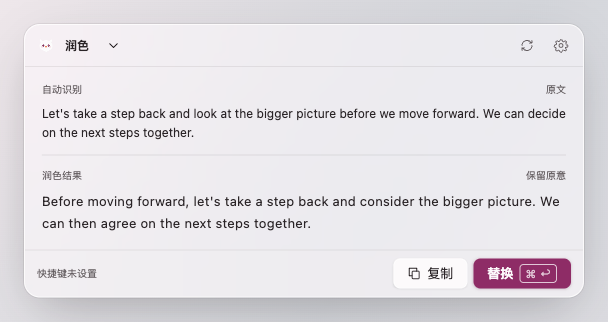
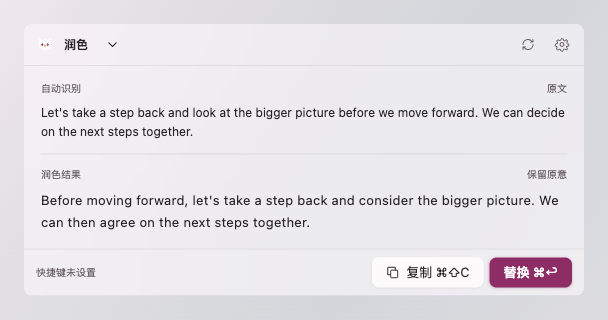
design: mirror the panel's shortcuts, write-back and chrome
The app now lists the floating panel's fixed keys on the 快捷键 page,
names ⌘⇧C / ⌘↩ on the panel footer, calls a refused write-back
result-unwritten instead of result-stale, and keeps the system glass
defaults with no border and no window shadow. The mockups and the docs
still described the old 应用内 rows, the stale notice, a hairline panel
stroke and a soft panel shadow.

Update design/index.html (PANEL_KEYS, footer labels, result-unwritten),
regenerate the screenshots, and correct every prose claim that the
write-back compares the selection, that the panel draws its own border
or shadow, or that the 快捷键 page has a 应用内 section. The component
doc now counts three must-customize exceptions instead of four, because
the panel no longer hand-draws the glass and shadow that the removed
breathing exception depended on.

diff --git a/design/index.html b/design/index.html
@@ -134,7 +134,7 @@ select.popup{appearance:none;-webkit-appearance:none;height:28px;padding:0 26px 
 .section-footer svg{width:14px;height:14px}
 
 /* Floating panel */
-.window.floating{display:flex;flex-direction:column;width:560px;min-height:0;height:auto;max-height:calc(100vh - 200px);margin:clamp(20px,5vh,55px) auto 0;border-radius:16px;background:oklch(99% .006 350/.55);backdrop-filter:blur(30px) saturate(1.5)}
+.window.floating{display:flex;flex-direction:column;width:560px;min-height:0;height:auto;max-height:calc(100vh - 200px);margin:clamp(20px,5vh,55px) auto 0;border:0;border-radius:8px;box-shadow:none;background:oklch(99% .006 350/.55);backdrop-filter:blur(30px) saturate(1.5)}
 .window.floating>.appbar,.window.floating>.sidebar{display:none}
 .window.floating>.page{grid-column:auto;grid-row:auto;background:transparent}
 .window.floating.compact{width:430px}
@@ -223,7 +223,7 @@ body.board-open #sourceDrawer,body.board-open #toast{display:none!important}
 </defs></svg>
 <div id="experience" class="stage">
 <div id="menubar" class="mac-menubar"></div>
-<header class="studio"><div class="brand"><img class="owl" src="logo/owlet.png" alt="Owlet"/><div><b>owlet</b></div></div><div class="prototype"><button onclick="showBoard()">状态总览 ↗</button><select id="scenario" aria-label="演示场景"><option value="normal">正常流程</option><option value="stale">原选区已变化</option><option value="error">请求失败</option></select></div></header>
+<header class="studio"><div class="brand"><img class="owl" src="logo/owlet.png" alt="Owlet"/><div><b>owlet</b></div></div><div class="prototype"><button onclick="showBoard()">状态总览 ↗</button><select id="scenario" aria-label="演示场景"><option value="normal">正常流程</option><option value="unwritten">未能写回</option><option value="error">请求失败</option></select></div></header>
 <div class="state-browser"><span>状态预览</span><button aria-label="上一个状态" onclick="stepState(-1)">←</button><select id="statePicker" aria-label="界面状态" onchange="preview(this.value)"></select><button aria-label="下一个状态" onclick="stepState(1)">→</button><small id="stateCount"></small></div>
 <div class="window" id="window"><header class="appbar" id="appbar"></header><aside class="sidebar" id="sidebar"></aside><main class="page" id="main"></main></div>
 <footer class="stage-footer"><span>macOS 26</span><span><button onclick="sample('en')">英语示例</button> / <button onclick="sample('ja')">日语示例</button><button onclick="toggleSource()">查看模拟原选区 ↗</button></span></footer>
@@ -248,7 +248,8 @@ const longText="Let's take a step back and look at the bigger picture before we 
 const LANGS=[['zh-Hans','简体中文'],['zh-Hant','繁體中文'],['en','English'],['ja','日本語']];
 const langName=v=>(LANGS.find(l=>l[0]===v)||LANGS[0])[1];
 const SHORTCUTS=[['翻译','translate'],['润色','polish'],['翻译并替换','translateReplace']];
-const IN_APP=[['提交文本','⌘ ↩','应用内'],['替换结果','⌘ ↩','浮动工具栏'],['关闭 / 取消','Esc','浮动工具栏']];
+// PanelKey.all：面板打开时始终生效的固定键，实现于 Owlet/Shortcuts/PanelKey.swift。
+const PANEL_KEYS=[['替换','⌘ ↩','浮动面板'],['复制','⌘ ⇧ C','浮动面板'],['停止处理 / 关闭','Esc','浮动面板']];
 // PanelController.Notice：消息与唯一的恢复入口，实现于 Owlet/App/PanelController.swift。
 const MODEL_LIST_ERROR='Authentication failed. Check the API key.';
 const NOTICES={
@@ -257,7 +258,7 @@ const NOTICES={
   missingConfig:{message:'模型服务未配置',action:'配置服务'},
   format:{message:'返回格式错误，请检查提示词',action:'提示词设置'},
   connection:{message:'连接失败，请检查模型服务',action:'服务设置'},
-  stale:{message:'原选区已变化，未替换',action:'复制结果'},
+  unwritten:{message:'未能写回原应用',action:'复制结果'},
   cancelled:{message:'已取消处理',action:'重新处理'}
 };
 
@@ -271,7 +272,7 @@ const states=[
  ['workspace-error','文本处理 · 请求失败','行内提示 ModelError 的原始文案，并提供服务设置入口。','workspace-error.png'],
  ['workspace-unconfigured','文本处理 · 服务未配置','缺少服务配置时提示并指向设置。','workspace-unconfigured.png'],
  ['workspace-collapsed','文本处理 · 侧栏收起','NavigationSplitView 收起侧栏后页面不变。','workspace-collapsed.png'],
- ['shortcuts','快捷键 · 未设置','三个全局动作未录制；应用内快捷键固定。','shortcuts.png'],
+ ['shortcuts','快捷键 · 未设置','三个全局动作未录制；面板内固定键只读。','shortcuts.png'],
  ['shortcuts-recording','快捷键 · 录制中','录制按钮等待新组合键；Esc 取消，Delete 清除。','shortcuts-recording.png'],
  ['shortcuts-conflict','快捷键 · 组合冲突','与已录制动作冲突时提示换一个组合。','shortcuts-conflict.png'],
  ['settings','设置 · 模型服务','DeepSeek 已保存：Base URL、Key、模型列表选择与浮窗位置。','settings.png'],
@@ -288,12 +289,12 @@ const states=[
  ['permission','权限 · 未授权','未授权时不发起请求，入口指向权限设置。','permission.png'],
  ['unconfigured','服务 · 未配置','缺少服务配置时提示并指向设置。','unconfigured.png'],
  ['selection-error','选区 · 读取失败','读取不到文字时不发起请求，可改用手动输入。','selection-error.png'],
- ['stale','直接替换 · 选区失效','原选区变化时停止写回，只保留复制。','stale.png'],
+ ['stale','直接替换 · 未能写回','未能写回原应用时就地提示，并可复制结果。','stale.png'],
  ['result','翻译 · 结果','展开面板：头部操作选择、原文、译文与底部复制替换。','result.png'],
  ['polish','润色 · 结果','同一面板，标签改为润色结果与保留原意。','polish.png'],
  ['long','翻译 · 长文本','结果滚动，复制与替换固定在底部。','long.png'],
  ['result-loading','翻译 · 结果区处理中','已展开时重新处理保持展开，在结果区显示加载。','result-loading.png'],
- ['result-stale','翻译 · 写回被拒','结果仍保留，就地说明未写回并可复制。','result-stale.png'],
+ ['result-unwritten','翻译 · 未能写回','结果仍保留，就地说明未能写回并可复制。','result-unwritten.png'],
  ['result-notice','翻译 · 结果区失败','展开态失败不收起面板：结果区隐藏，行内提示加底部重试。','result-notice.png'],
  ['result-cancelled','翻译 · 结果区已取消','取消后结果区隐藏，行内提示与底部都回到重新处理。','result-cancelled.png'],
  ['menubar','菜单栏 · 常驻','点击菜单栏图标展开菜单，不直接开窗。','menubar.png'],
@@ -325,12 +326,12 @@ const config={
   permission:{surface:'compact',view:'translate',strip:'notice',notice:'permission'},
   unconfigured:{surface:'compact',view:'translate',strip:'notice',notice:'missingConfig'},
   'selection-error':{surface:'compact',view:'translate',strip:'notice',notice:'unreadable'},
-  stale:{surface:'compact',view:'direct',strip:'notice',notice:'stale'},
+  stale:{surface:'compact',view:'direct',strip:'notice',notice:'unwritten'},
   result:{surface:'panel',view:'translate',phase:'success'},
   polish:{surface:'panel',view:'polish',phase:'success',operation:'polish'},
   long:{surface:'panel',view:'translate',phase:'success',long:true},
   'result-loading':{surface:'panel',view:'translate',phase:'loading'},
-  'result-stale':{surface:'panel',view:'translate',phase:'success',notice:'stale'},
+  'result-unwritten':{surface:'panel',view:'translate',phase:'success',notice:'unwritten'},
   'result-notice':{surface:'panel',view:'translate',phase:'failure',notice:'connection'},
   'result-cancelled':{surface:'panel',view:'translate',phase:'idle',notice:'cancelled'},
   menubar:{surface:'menubar',view:'translate',phase:'success'},
@@ -339,24 +340,24 @@ const config={
 // 状态总览按窗口与面板分组，分区竖向堆叠。
 const panels=[
  {title:'应用窗口 · 文本处理',note:'NavigationSplitView：可收起的系统侧边栏 + 跨整窗的统一工具栏。工具栏 trailing 端是目标语言弹出式按钮、翻译／润色分段控件，以及底部操作栏的复制与主要动作。',nodes:['workspace','workspace-empty','workspace-input','workspace-loading','workspace-polish','workspace-error','workspace-unconfigured','workspace-collapsed']},
- {title:'应用窗口 · 快捷键',note:'全局动作录制与应用内固定快捷键；无默认组合。',nodes:['shortcuts','shortcuts-recording','shortcuts-conflict']},
+ {title:'应用窗口 · 快捷键',note:'全局动作录制与面板内固定快捷键；无默认组合。',nodes:['shortcuts','shortcuts-recording','shortcuts-conflict']},
  {title:'应用窗口 · 设置',note:'inset grouped 表单；设置是主窗口的侧栏页面，不是独立窗口。',nodes:['settings','settings-openai','settings-saved','settings-models','settings-models-loading']},
  {title:'浮动面板 · 紧凑条',note:'快捷键唤起后的单行玻璃条：选中文字摘要、加载指示、停止按钮；失败与缺少条件时就地给一个恢复入口。',nodes:['loading','polish-loading','direct-loading','error','format-error','cancelled','permission','unconfigured','selection-error','stale']},
- {title:'浮动面板 · 展开',note:'首次成功后展开：头部操作选择、原文与译文、底部复制与替换。已展开时重新处理保持展开，状态显示在内容区。',nodes:['result','polish','long','result-loading','result-stale','result-notice','result-cancelled']},
+ {title:'浮动面板 · 展开',note:'首次成功后展开：头部操作选择、原文与译文、底部复制与替换。已展开时重新处理保持展开，状态显示在内容区。',nodes:['result','polish','long','result-loading','result-unwritten','result-notice','result-cancelled']},
  {title:'菜单栏',note:'MenuBarExtra 的常驻入口，点击展开菜单。',nodes:['menubar','menubar-menu']}
 ];
 
 let state='result',which='en',prefs={target:'zh-Hans'},appPage='processing',operationOverride=null,sidebarCollapsed=false;
 let phase='success',notice=null,long=false,recording=null,saved=false,shortcutDraft=null,conflict=false,menubarMenu=false;
 let scenario='normal',toastTimer,external="Let's take a step back and look at the bigger picture before we move forward. We can decide on the next steps together.";
-let sourceSnapshot=external,buildingBoard=false,boardBuilt=false;
+let buildingBoard=false,boardBuilt=false;
 
 function cfg(){return config[state]||config.result}
 function resultText(){if(currentOperation()==='polish')return samples[which].polish;const base=samples[which][prefs.target]||samples[which].zh;return long?(base+'\n\n'+base):base}
 function inputText(){return long?longText:samples[which].text}
 function toast(msg){$('#toast').textContent=msg;$('#toast').classList.remove('hidden');clearTimeout(toastTimer);toastTimer=setTimeout(()=>$('#toast').classList.add('hidden'),2600)}
 function toggleSource(){$('#sourceDrawer').classList.toggle('hidden')}
-function sample(k){which=k;external=inputText();sourceSnapshot=external;render()}
+function sample(k){which=k;external=inputText();render()}
 
 // ---------- 应用窗口 ----------
 function sidebarHTML(){
@@ -379,7 +380,7 @@ function setOperation(v){operationOverride=v;render()}
 function currentOperation(){return operationOverride||cfg().operation||'translate'}
 function processingHTML(){
   const op=currentOperation(),busy=phase==='loading',done=phase==='result',failed=phase==='failure';
-  const source=`<section class="source-section"><div class="labelrow"><span class="label">${done||busy?'自动识别':'输入文本'}</span><span>${done||busy?'原文':'⌘ V 粘贴'}</span></div><textarea class="source" aria-label="原文" spellcheck="false" placeholder="输入或粘贴要处理的文本…" oninput="sourceSnapshot=this.value">${cfg().empty?'':esc(inputText())}</textarea></section>`;
+  const source=`<section class="source-section"><div class="labelrow"><span class="label">${done||busy?'自动识别':'输入文本'}</span><span>${done||busy?'原文':'⌘ V 粘贴'}</span></div><textarea class="source" aria-label="原文" spellcheck="false" placeholder="输入或粘贴要处理的文本…" oninput="external=this.value">${cfg().empty?'':esc(inputText())}</textarea></section>`;
   const label=busy?`<span class="pending-label"><span class="spin mini" aria-hidden="true"></span>${op==='polish'?'润色中':'翻译中'}</span>`:(op==='polish'?'润色结果':'译文');
   const meta=op==='polish'?'保留原意':langName(prefs.target);
   const result=done?esc(resultText()):`<span>${esc(inputText().slice(0,140))}</span>`;
@@ -399,8 +400,8 @@ function shortcutsHTML(){
   const note=conflict
     ?`${icon('warn')}该组合已用于“翻译”，请换一个。`
     :recording?'按新组合键；Esc 取消，Delete 清除。':'';
-  const inApp=IN_APP.map(([n,k,s])=>`<div class="keyrow"><span><span class="name">${n}</span><span class="scope" style="display:block">${s}</span></span><span class="keys">${k}</span></div>`).join('');
-  return `<div class="body" id="body"><div class="form"><div class="form-section"><p class="group-title">全局</p>${rows}<p class="section-footer" role="status">${note||'&nbsp;'}</p></div><div class="form-section"><p class="group-title">应用内</p>${inApp}<p class="section-footer">录制后立即生效</p></div></div></div>`;
+  const panelKeys=PANEL_KEYS.map(([n,k,s])=>`<div class="keyrow"><span><span class="name">${n}</span><span class="scope" style="display:block">${s}</span></span><span class="keys">${k}</span></div>`).join('');
+  return `<div class="body" id="body"><div class="form"><div class="form-section"><p class="group-title">全局</p>${rows}<p class="section-footer" role="status">${note||'&nbsp;'}</p></div><div class="form-section"><p class="group-title">面板内</p>${panelKeys}<p class="section-footer">面板打开时这些键始终生效，且不能更改；上面三个快捷键由你录制。</p></div></div></div>`;
 }
 function settingsHTML(){
   const failed=cfg().models==='failed',openai=cfg().provider==='openai';
@@ -443,7 +444,7 @@ function panelFooterHTML(){
   const hint=busy?'Esc 取消':(shortcutDraft?'⌘⇧T 唤起':'快捷键未设置');
   let actions;
   if(busy)actions=`<button class="glass-btn" onclick="cancelRun()">取消</button>`;
-  else if(phase==='success')actions=`<button class="glass-btn" onclick="copyResult()">${icon('copy')} 复制</button><button class="glass-btn prominent" onclick="replaceResult()">替换 <kbd>⌘ ↩</kbd></button>`;
+  else if(phase==='success')actions=`<button class="glass-btn" onclick="copyResult()">${icon('copy')} 复制 ⌘⇧C</button><button class="glass-btn prominent" onclick="replaceResult()">替换 ⌘↩</button>`;
   else actions=`<button class="glass-btn prominent" onclick="run()">${phase==='idle'?'重新处理':'重试'} <kbd>⌘ ↩</kbd></button>`;
   return `<footer class="footer panel-footer"><span class="hint">${hint}</span><span class="actions">${actions}</span></footer>`;
 }
@@ -486,7 +487,7 @@ function preview(id){
   notice=c.strip==='notice'?c.notice:(c.notice||null);
   long=!!c.long;recording=c.recording||null;saved=!!c.saved;conflict=!!c.conflict;menubarMenu=!!c.menubarMenu;operationOverride=null;
   if(c.surface==='menubar'){$('#window').classList.add('hidden');$('#sourceDrawer').classList.add('hidden')}
-  sidebarCollapsed=!!c.collapsed;external=inputText();sourceSnapshot=external;$('#external').value=external;
+  sidebarCollapsed=!!c.collapsed;external=inputText();$('#external').value=external;
   render();syncPicker();
 }
 function stepState(d){const i=states.findIndex(s=>s[0]===state);preview(states[(i+d+states.length)%states.length][0])}
@@ -499,11 +500,11 @@ function run(){
 }
 function cancelRun(){const c=cfg();if(c.surface==='app'){phase='result';render();return}if(c.surface==='compact'&&c.strip==='loading'){state='cancelled';phase='success';notice='cancelled';render();syncPicker();return}phase='success';notice='cancelled';render()}
 function replaceResult(){
-  if(scenario==='stale'||$('#external').value!==sourceSnapshot){state='stale';phase='success';notice='stale';render();syncPicker();toast('原选区已变化，未替换');return}
+  if(scenario==='unwritten'){state='stale';phase='success';notice='unwritten';render();syncPicker();toast('未能写回原应用');return}
   $('#external').value=resultText();$('#window').classList.add('hidden');toast('已替换原选区');
 }
 function recover(kind){
-  if(kind==='stale'){copyResult();return}
+  if(kind==='unwritten'){copyResult();return}
   if(kind==='cancelled'){run();return}
   if(kind==='unreadable'){openApp('processing');return}
   if(kind==='permission'){toast('正式应用会打开「隐私与安全性 › 辅助功能」');return}

diff --git a/tasks/plan.md b/tasks/plan.md
@@ -15,9 +15,9 @@
 - 最低支持 macOS Tahoe 26.0（引入 Liquid Glass 的版本），不支持更早系统；使用 SwiftData 保存历史与收藏，UserDefaults 保存普通设置，Keychain 保存 Key。工程使用 macOS 26 或更新 SDK，Deployment Target 设为 26.0。
 - URLSession 调用 OpenAI 兼容的 Chat Completions 接口；所有模型消息内容必须返回并通过 JSON 契约校验；支持时采用供应商结构化输出，不支持时仍要求 JSON 并严格校验，不回退纯文本。设置的 Base URL 定义为 API 根路径，清晰展示最终请求地址。
 - 先显示完整结果，不将流式响应列为首版要求。请求可取消，旧响应不得覆盖新操作。
-- 原生辅助功能接口读取选区；打开前缺权限或配置时显示紧凑提示及对应设置入口，读取失败提供进入完整窗口的手动输入入口。已展开的工具栏遇错保留界面，在内容区提示并提供恢复入口；不能确认原选区时拒绝替换。
+- 原生辅助功能接口读取选区；打开前缺权限或配置时显示紧凑提示及对应设置入口，读取失败提供进入完整窗口的手动输入入口。已展开的工具栏遇错保留界面，在内容区提示并提供恢复入口；仅在没有运行中的所属应用、没有辅助功能权限或无法前置所属应用时拒绝写回。
 - 历史不保存可执行的外部选区引用。收藏独立保存语境，删除历史不级联删除收藏。
-- 选区（已确认）：优先辅助功能接口读取与写回；不支持时回退模拟 ⌘C／⌘V，事后恢复剪贴板。回退粘贴前重新确认焦点元素与选中文本未变，否则拒绝写回。
+- 选区（已确认）：优先辅助功能接口读取与写回；不支持时回退模拟 ⌘C／⌘V，事后恢复剪贴板。写回不比较选区文字，直接尝试辅助功能写入，失败再粘贴；仅在无权限或无法前置所属应用时拒绝。
 - 快捷键（已确认）：无默认组合，用户录制后才注册；“恢复默认”即清除。
 - 应用形态（已确认）：仅菜单栏图标，无 Dock 图标（`LSUIElement`），主窗口由菜单栏打开。
 - 分发（已确认）：不启用 App Sandbox（跨应用辅助功能需要），本机签名自用；共享构建时再加 Developer ID 与公证，不上架 Mac App Store。
@@ -73,7 +73,7 @@ Prompt 使用内置默认值；快捷键无默认，T03 先交付录制；选区
 | 行为依据 | 首个交付任务 | 后续扩展与验证 |
 |---|---|---|
 | `spec/processing/features/shortcuts.feature`：主窗口右上角控件 | T01 放置目标语言选择 | T07 增加其右侧的翻译／润色选择；润色隐藏语言，切回翻译保留选择 |
-| `spec/processing/features/toolbar-errors.feature`、BDR-0002：按展开状态呈现错误 | T04 交付翻译的紧凑提示与展开后报错 | T05 加入选区失效，T06 接入直接替换，T07 覆盖润色；检查点 A 验证 |
+| `spec/processing/features/toolbar-errors.feature`、BDR-0002：按展开状态呈现错误 | T04 交付翻译的紧凑提示与展开后报错 | T05 加入写回拒绝提示，T06 接入直接替换，T07 覆盖润色；检查点 A 验证 |
 | `spec/processing/features/polishing.feature`：普通原文与单一结果 | T07 | 原文和结果各一份，无差异背景、删除线或对照开关；不新增差异计算能力 |
 
 T01/T02 先提供各自需要的服务错误和配置恢复行为；T04 随浮窗首个消费者接入错误呈现，不预建润色或直接替换专用状态。首次快捷操作与已展开后重新处理分别验证；取消、迟到响应和安全写回约束保持不变。
@@ -94,7 +94,7 @@ mise run check   # lint + test，pre-commit 与 CI 同用
 | 风险 | 影响 | 处理 |
 |---|---|---|
 | 应用不公开选区、选区或文档已变化 | 读错或覆盖其他文字 | T02、T04 提前处理；验证来源元素、文档与选区，不可靠时只复制 |
-| 浮窗切换焦点使原选区失效 | 替换失败 | 唤起前保存会话内来源上下文，写回前重新检查；模拟粘贴仅在确认焦点元素与选中文本未变后执行，并恢复剪贴板 |
+| 浮窗切换焦点后原选区或其元素不再可达 | 写回失败 | 写回直接尝试辅助功能写入，失败再粘贴；仅在无权限或无法前置所属应用时拒绝，结果仍可复制 |
 | 兼容接口返回格式或错误不同 | 请求失败、结果无法展示 | 明确接口范围；校验响应、展示可重试错误，不要求供应商专属能力 |
 | 请求交错与重复点击 | 展示旧结果、重复历史或收藏 | 操作标识、取消与保存幂等在各自首个消费任务中加入 |
 | 把所有错误统一收起或统一展开 | 打断已有上下文，或展示无法使用的工具栏 | T02 起按打开前／展开后分别验证相同错误；设置入口指向当前操作对应配置 |

diff --git a/spec/product.md b/spec/product.md
@@ -23,11 +23,11 @@
 
 ### 翻译并直接替换
 
-选中文本 → “翻译并替换”快捷键 → 按当前目标语言翻译 → 校验原选区 → 直接写回，无需再点击替换。
+选中文本 → “翻译并替换”快捷键 → 按当前目标语言翻译 → 定位原选区 → 直接写回，无需再点击替换。
 
 - 使用独立、可配置的全局快捷键；沿用最近选择的目标语言，默认中文。
-- 仅对可编辑且可可靠定位的原选区写回。没有有效选区时显示紧凑提示与行内手动输入入口，不自动展开输入界面；用户主动进入完整窗口后可以输入，但不会自动替换其他位置。Esc 关闭并取消。
-- 翻译失败、请求取消或被新操作取代时，不写回；原文或选区变化时保留译文供复制。
+- 仅对已读取到并可靠定位的原选区写回。没有有效选区时显示紧凑提示与行内手动输入入口，不自动展开输入界面；用户主动进入完整窗口后可以输入，但不会自动替换其他位置。Esc 关闭并取消。
+- 翻译失败、请求取消或被新操作取代时，不写回；无法写回时保留译文供复制。
 - 与普通翻译一样保存历史；译文生成成功但替换失败时仍保留翻译记录。
 - 沿用翻译学习开关；学习内容的生成不阻塞替换，也不触发自动收藏。
 
@@ -54,7 +54,7 @@
 - 支持键盘操作，Esc 关闭浮窗。
 - 普通翻译／润色由用户点击替换后写回；“翻译并替换”快捷键明确授权本次翻译完成后直接写回。
 - 获取不到选中文字时不发起模型请求。工具栏未展开时显示紧凑提示及手动输入入口；工具栏已经展开时保留界面，在内容区提示问题。手动输入在完整窗口进行，不自动写回原选区。
-- 原选区失效或无法安全定位时，提示无法替换，保留结果供复制。
+- 无法写回原选区时，提示未能写回，保留结果供复制。
 - 从历史查看的结果可复制；不沿用历史操作的原选区执行替换。
 
 ## 学习内容与收藏
@@ -108,8 +108,8 @@
 
 - 主界面不提供“返回浮动工具栏”操作；浮动工具栏由全局快捷键触发，主界面保持独立。
 
-- 翻译、润色、翻译并替换在工具栏尚未展开时遇到读取失败、权限或配置缺失、连接或认证失败、返回格式错误、选区失效或取消，只显示紧凑提示及对应的行内设置／恢复入口。权限问题进入权限设置，服务问题进入服务配置，格式问题进入对应操作的提示词设置；选区失效时可复制已有结果，取消后可重新处理。Esc 关闭并取消本次操作，选区失效不得再次写回。
+- 翻译、润色、翻译并替换在工具栏尚未展开时遇到读取失败、权限或配置缺失、连接或认证失败、返回格式错误、写回失败或取消，只显示紧凑提示及对应的行内设置／恢复入口。权限问题进入权限设置，服务问题进入服务配置，格式问题进入对应操作的提示词设置；写回失败时可复制已有结果，取消后可重新处理。Esc 关闭并取消本次操作，写回失败后不重复写回。
 
-- 已展开的浮动工具栏重新处理时保持展开，在结果区域显示处理中；后续失败、权限或配置问题、选区失效及取消均在内容区提示，并给出对应的行内设置／恢复入口，不收起为紧凑条。保留原文及仍可用的结果；请求失败不呈现为成功。首次快捷操作仍使用紧凑处理态。
+- 已展开的浮动工具栏重新处理时保持展开，在结果区域显示处理中；后续失败、权限或配置问题、写回失败及取消均在内容区提示，并给出对应的行内设置／恢复入口，不收起为紧凑条。保留原文及仍可用的结果；请求失败不呈现为成功。首次快捷操作仍使用紧凑处理态。
 
 - 完整 app 左侧新增独立“快捷键”导航页，列出常用操作、当前绑定和作用范围；全局绑定显示用户保存的组合，在本页直接录制、清除并保存，不再跳转设置。不与翻译／润色做 tab 切换。未实现或未确认的快捷键不伪装为已生效。

diff --git a/docs/unimplemented-features.md b/docs/unimplemented-features.md
@@ -23,7 +23,7 @@
 | 复习／间隔重复／掌握度 | 首版不做（另见 个人生词本） | — | 首版不做 |
 | 「提示词设置」恢复入口（返回格式错误时的按钮落不到 Prompt 编辑） | 定义边界 | `direct-format-error` | T12 |
 
-其余被移除、但不对应任何未实现功能的状态：`empty` 是无结果的纯输入态，实现已覆盖；`direct-selection-error`、`direct-permission`、`direct-unconfigured`、`direct-error`、`direct-cancelled` 是"翻译并直接替换"的紧凑提示，实现中由 `PanelController.Notice` 的 `stale`／`permission`／`missingConfig`／`failure`／`cancelled` 覆盖。只有 `direct-format-error` 因缺少可用的恢复入口留在上表。
+其余被移除、但不对应任何未实现功能的状态：`empty` 是无结果的纯输入态，实现已覆盖；`direct-selection-error`、`direct-permission`、`direct-unconfigured`、`direct-error`、`direct-cancelled` 是"翻译并直接替换"的紧凑提示，实现中由 `PanelController.Notice` 的 `unwritten`／`permission`／`missingConfig`／`failure`／`cancelled` 覆盖。只有 `direct-format-error` 因缺少可用的恢复入口留在上表。
 
 - **主窗口的错误提示是英文原文。** `TranslationView` 对 `.failure` 直接渲染 `ModelError.message`，而该文案是英文（如 `Authentication failed. Check the API key.`、`Network error: …`）；浮窗侧则把这些映射成中文。证据：`Owlet/LLM/ModelClient.swift` 的 `ModelError.message`、`Owlet/Processing/TranslationView.swift` 的 `status`。设计图的 `workspace-error` 因此画的是英文文案。
 - **设置里模型列表失败也显示原始错误。** `ServiceSettingsView.modelField` 的 `.failed` 分支渲染 `Label(message, …)`，`message` 同样来自英文的 `ModelError` 或 `localizedDescription`。证据：`Owlet/Settings/ServiceSettingsView.swift`。
@@ -43,4 +43,4 @@
 - **格式错误的恢复入口到不了 Prompt 编辑器。** 格式错误时 `Notice.actionTitle` 返回"提示词设置"，但 `PanelView.recover` 把 `.failure` 一律映射到 `settings()`，而设置页只有"模型服务"与"浮窗"两个分组，没有 Prompt 编辑，只有 `DefaultPrompts` 常量。证据：`Owlet/App/PanelController.swift`、`Owlet/Processing/TranslationView.swift`、`Owlet/Settings/ServiceSettingsView.swift`、`Owlet/LLM/DefaultPrompts.swift`。
 - **替换成功后浮窗直接关闭，没有确认屏。** `replace(with:)` 写回成功即调用 `close()`，`Notice` 没有成功分支，`ExpandedPanel` 也没有成功内联行。证据：`Owlet/App/PanelController.swift`、`Owlet/App/ExpandedPanel.swift`。
 - **面板只在第一次成功后才展开，之后一直保持展开。** `expanded` 只在首次 `.success` 时置为 `true`，此后重新处理（`.loading`）、失败、取消都保留展开态，只是结果区按 `hasResultSection`（仅 `.loading`／`.success`）显示或隐藏；因此设计里的 `success`／`empty` 状态没有对应界面。证据：`Owlet/App/PanelController.swift` 的 `translate()`。
-- **内联的选区失效提示显示的是 `Notice.stale` 的短消息，`replaceMessage` 从未显示。** `inlineNotice` 在 `.success` 且 `replaceMessage != nil` 时返回 `.stale`，`ExpandedPanel` 渲染的是 `notice.message`（"原选区已变化，未替换"）；`replaceMessage` 更完整的"原选区已变化或无法确认，未替换。可复制结果。"被赋值却没有视图读取。证据：`Owlet/App/PanelController.swift`、`Owlet/App/ExpandedPanel.swift`。
+- **展开态写回失败提示显示的是 `Notice.unwritten` 的短消息。** `inlineNotice` 在 `.success` 且 `writebackRefused` 为真时返回 `.unwritten`，`ExpandedPanel` 渲染的是 `notice.message`（"未能写回原应用"）。证据：`Owlet/App/PanelController.swift`、`Owlet/App/ExpandedPanel.swift`。

diff --git a/tasks/todo.md b/tasks/todo.md
@@ -106,7 +106,7 @@
 
 - [x] 完成
 
-**缺口：**`PanelControllerTests.refusedWriteKeepsResult` 因应用宿主测试挂起而 disabled，写回拒绝的浮窗行为仅由 `SelectionBridgeTests.canReplace` 覆盖。
+**缺口：**`PanelControllerTests.refusedWriteKeepsResult` 因应用宿主测试挂起而 disabled，写回拒绝的浮窗行为仅由 `SelectionBridgeTests.replaceRefusesWithoutAccessibilityPermission` 与 `SelectionBridgeTests.pasteRefusesWithoutFrontingTheApp` 覆盖。
 
 **说明：**让当前结果可由用户主动写回原选区。
 
@@ -135,11 +135,11 @@
 
 **验收条件：**
 - [x] 快捷键页加入该动作并检查与已有动作冲突；已录制快捷键按当前目标语言翻译有效选区；完成后校验来源并直接替换一次，无二次确认。
-- [x] 无有效选区时仅显示紧凑提示及手动输入入口，不自动写回；失败、取消、过期响应及原选区变化均不写回，已有译文可复制。
+- [x] 无有效选区时仅显示紧凑提示及手动输入入口，不自动写回；失败、取消、过期响应及写回被拒均不写回，已有译文可复制。
 - [x] 错误沿用 T04 规则：未展开时紧凑提示，已展开时在内容区呈现；恢复操作不绕过写回校验。
 
 **验证：**
-- [x] `mise run test`：成功仅写回一次、取消后迟到响应、新请求覆盖、原文改变与只读选区。
+- [x] `mise run test`：成功仅写回一次、取消后迟到响应、新请求覆盖、无选区不写回、直写失败改用粘贴、无权限与无法前置应用时拒绝。
 - [ ] 手测完整快捷流程。
 
 **依赖：**T05
@@ -578,14 +578,14 @@
 **说明：**处理中用整圈边框呼吸，动作行只放动作。
 
 **验收条件：**
-- [ ] 呼吸只作用于 `NSGlassEffectView` 自身的 `border-color` 与边缘阴影，单色、无渐变、无新增图层；紧凑态与展开态共用；面板尺寸与位置不变。
-- [ ] `Reduce Motion` 下呼吸静止为稳定亮边，不丢失标记；状态文字始终存在，动效不是唯一载体。
+- [ ] 呼吸只作用于面板边缘，单色、无渐变、不新增自绘边框与阴影；紧凑态与展开态共用；面板尺寸与位置不变。
+- [ ] `Reduce Motion` 下呼吸静止为稳定状态，不丢失标记；状态文字始终存在，动效不是唯一载体。
 - [ ] 紧凑条不显示终止按钮；Esc 关闭并取消本次操作。
 - [ ] 动作行 leading 端是 `收藏选中内容`（无结果时不显示），trailing 端是 `复制` 与唯一的 prominent 动作；动作行内不出现提示文案。
 - [ ] `⌘↩` / `Esc` 等快捷键不再画在按钮上，改由菜单栏与悬停提示承担。
 
 **验证：**
-- [ ] 处理中／失败／取消／成功／选区失效五态截图。
+- [ ] 处理中／失败／取消／成功／未能写回五态截图。
 - [ ] 开启 `Reduce Motion` 与 `Reduce Transparency` 各跑一遍。
 
 **依赖：**T18
@@ -621,7 +621,7 @@
 ## 检查点 M5：组件对照验收
 
 - [ ] [docs/liquid-glass-components.md](../docs/liquid-glass-components.md) 第 8 节的十条验收清单逐条通过。
-- [ ] 风险最高的四处例外（呼吸边框、内联提示行、快捷键录制、逐句对照）各自有实现说明与回退路径。
+- [ ] 风险最高的三处例外（内联提示行、快捷键录制、逐句对照）各自有实现说明与回退路径。
 
 ## 检查点 D：首版完整验收
 

diff --git a/design/README.md b/design/README.md
@@ -27,7 +27,7 @@ Scrollable content retains its designed viewport; source text is the built-in En
 | [workspace-error.png](screenshots/workspace-error.png) | 文本处理 · 请求失败 | 行内提示 ModelError 的原始文案，并提供服务设置入口。 |
 | [workspace-unconfigured.png](screenshots/workspace-unconfigured.png) | 文本处理 · 服务未配置 | 缺少服务配置时提示并指向设置。 |
 | [workspace-collapsed.png](screenshots/workspace-collapsed.png) | 文本处理 · 侧栏收起 | NavigationSplitView 收起侧栏后页面不变。 |
-| [shortcuts.png](screenshots/shortcuts.png) | 快捷键 · 未设置 | 三个全局动作未录制；应用内快捷键固定。 |
+| [shortcuts.png](screenshots/shortcuts.png) | 快捷键 · 未设置 | 三个全局动作未录制；面板内固定键只读。 |
 | [shortcuts-recording.png](screenshots/shortcuts-recording.png) | 快捷键 · 录制中 | 录制按钮等待新组合键；Esc 取消，Delete 清除。 |
 | [shortcuts-conflict.png](screenshots/shortcuts-conflict.png) | 快捷键 · 组合冲突 | 与已录制动作冲突时提示换一个组合。 |
 | [settings.png](screenshots/settings.png) | 设置 · 模型服务 | DeepSeek 已保存：Base URL、Key、模型列表选择与浮窗位置。 |
@@ -44,12 +44,12 @@ Scrollable content retains its designed viewport; source text is the built-in En
 | [permission.png](screenshots/permission.png) | 权限 · 未授权 | 未授权时不发起请求，入口指向权限设置。 |
 | [unconfigured.png](screenshots/unconfigured.png) | 服务 · 未配置 | 缺少服务配置时提示并指向设置。 |
 | [selection-error.png](screenshots/selection-error.png) | 选区 · 读取失败 | 读取不到文字时不发起请求，可改用手动输入。 |
-| [stale.png](screenshots/stale.png) | 直接替换 · 选区失效 | 原选区变化时停止写回，只保留复制。 |
+| [stale.png](screenshots/stale.png) | 直接替换 · 未能写回 | 未能写回原应用时就地提示，并可复制结果。 |
 | [result.png](screenshots/result.png) | 翻译 · 结果 | 展开面板：头部操作选择、原文、译文与底部复制替换。 |
 | [polish.png](screenshots/polish.png) | 润色 · 结果 | 同一面板，标签改为润色结果与保留原意。 |
 | [long.png](screenshots/long.png) | 翻译 · 长文本 | 结果滚动，复制与替换固定在底部。 |
 | [result-loading.png](screenshots/result-loading.png) | 翻译 · 结果区处理中 | 已展开时重新处理保持展开，在结果区显示加载。 |
-| [result-stale.png](screenshots/result-stale.png) | 翻译 · 写回被拒 | 结果仍保留，就地说明未写回并可复制。 |
+| [result-unwritten.png](screenshots/result-unwritten.png) | 翻译 · 未能写回 | 结果仍保留，就地说明未能写回并可复制。 |
 | [result-notice.png](screenshots/result-notice.png) | 翻译 · 结果区失败 | 展开态失败不收起面板：结果区隐藏，行内提示加底部重试。 |
 | [result-cancelled.png](screenshots/result-cancelled.png) | 翻译 · 结果区已取消 | 取消后结果区隐藏，行内提示与底部都回到重新处理。 |
 | [menubar.png](screenshots/menubar.png) | 菜单栏 · 常驻 | 点击菜单栏图标展开菜单，不直接开窗。 |

diff --git a/spec/DESIGN.md b/spec/DESIGN.md
@@ -22,7 +22,7 @@
 
 同一动作在同一产品里只用一个叫法。
 
-当前应用尚未采用这套规则：文本处理页在「原文」标签右侧画 `⌘ V 粘贴`，浮动面板动作行左端显示快捷键提示（`Esc 取消` / `快捷键未设置` / 已录制的全局快捷键 + ` 唤起`），按钮读作 `翻译文本` / `润色文本` / `保存设置`。差异与后续任务见 [docs/unimplemented-features.md](../docs/unimplemented-features.md)。
+当前应用尚未采用这套规则：文本处理页在「原文」标签右侧画 `⌘ V 粘贴`，浮动面板动作行左端显示快捷键提示（`Esc 取消` / `快捷键未设置` / 已录制的全局快捷键 + ` 唤起`），面板底部的 `复制` / `替换` 按钮也已写上 `⌘⇧C` / `⌘↩`，应用按钮读作 `翻译文本` / `润色文本` / `保存设置`。差异与后续任务见 [docs/unimplemented-features.md](../docs/unimplemented-features.md)。
 
 ## 布局约束（沿用）
 
@@ -48,4 +48,4 @@
 | 错误填充与文字 | 96% .025 45 / 43% .1 40 | `.red` 与系统材质底 |
 | 成功 | 43% .09 158 | `.green` |
 
-粉色只负责品牌与交互强调。成功保留绿色，错误保留系统红，避免与品牌粉混淆。背景、玻璃面板与正文保持中性灰白；玫瑰色集中在强调色、prominent 动作、选中态与处理中指示。处理中的整圈边框呼吸灯仍是待做设计：动画只作用于玻璃面板自身的 `border-color` 与边缘阴影，不使用粉色渐变描边，也不新增额外图层；减少动态效果时呼吸静止为稳定亮边。应用当前只用 `ProgressView`，见 [docs/unimplemented-features.md](../docs/unimplemented-features.md)。
+粉色只负责品牌与交互强调。成功保留绿色，错误保留系统红，避免与品牌粉混淆。背景、玻璃面板与正文保持中性灰白；玫瑰色集中在强调色、prominent 动作、选中态与处理中指示。处理中的整圈边框呼吸灯仍是待做设计，尚未采纳：面板不新增自绘边框与阴影，保留系统玻璃的默认外观；呼吸不使用粉色渐变描边，也不新增额外图层。应用当前只用 `ProgressView`，见 [docs/unimplemented-features.md](../docs/unimplemented-features.md)。

diff --git a/spec/engineering.md b/spec/engineering.md
@@ -47,9 +47,9 @@ struct TranslationSegment: Decodable {
 
 ## 测试策略
 
-原生建议 Swift Testing 验证契约解析、取消、选区失效与数据隔离；UI／辅助功能使用系统集成测试和人工兼容性检查。Gherkin 目前未绑定测试实现。
+原生建议 Swift Testing 验证契约解析、取消、写回失败与数据隔离；UI／辅助功能使用系统集成测试和人工兼容性检查。Gherkin 目前未绑定测试实现。
 
-固定模型响应覆盖成功、网络失败、无效 JSON；普通自动测试不调用真实模型。写回须覆盖选区变化、焦点变化、取消和迟到响应。历史删除不得影响收藏。学习默认不发请求，点击或开启自动请求后才请求。
+固定模型响应覆盖成功、网络失败、无效 JSON；普通自动测试不调用真实模型。写回须覆盖无权限、无所属应用、取消和迟到响应。历史删除不得影响收藏。学习默认不发请求，点击或开启自动请求后才请求。
 
 不设任意覆盖率数字；以上高风险行为必须有对应测试。仅在配置完成后进行显式真实服务检查。
 
@@ -57,7 +57,7 @@ struct TranslationSegment: Decodable {
 
 - Always：更新行为规格，校验模型响应，保护原文，运行对应验证并报告尚未验证的范围。
 - Ask first：改变已确认范围、最终 JSON 契约或原生技术方案；新增外部服务与依赖。
-- Never：提交密钥、未确认焦点元素与选中文本即粘贴覆盖选区、迟到响应写回、自动收藏、把示例原型称为原生实现。
+- Never：提交密钥、迟到响应写回、自动收藏、把示例原型称为原生实现。
 
 ## 成功条件
 

diff --git a/docs/selected-text-capture.md b/docs/selected-text-capture.md
@@ -26,7 +26,7 @@
 6. 从同一元素获取现有 `Source` 所需的文档与选区范围；范围必须通过 CF 类型和 AXValue 类型检查后解码。`Source.text` 复用本次读到的原文，不再次读取生成另一份内容。
 7. 回到主线程，确认操作未过期、未取消且前台应用仍为原 PID，才接收结果。成功时先保存 `Selection`、导入输入，再显示浮窗并启动对应模型请求。
 
-读取文字成功不等于允许写回。应用可能暴露选中文字却不暴露可靠范围；此时仍可翻译，替换必须继续遵守现有来源校验规则。AX 属性读取并非原子快照，捕获阶段记录的上下文不能替代写回前重新校验。
+读取文字成功不等于写回成功。写回不再比较捕获时的文本与选区范围，直接尝试辅助功能写入，失败再粘贴；仅在无权限或无法前置所属应用时拒绝，结果仍可复制。
 
 ## 响应时间与并发
 

diff --git a/spec/glossary.md b/spec/glossary.md
@@ -7,7 +7,7 @@
 | 原选区 | 用户触发操作时，来源应用中选中的文本及对应位置；不等同于后来获得焦点的输入框。 |
 | 翻译 | 将文本转换为目标语言，普通入口先展示结果。 |
 | 润色 | 保持语言与原意，修正语法和改善自然度。 |
-| 翻译并替换 | 一次明确触发翻译，并在原选区仍有效时直接写回结果。 |
+| 翻译并替换 | 一次明确触发翻译，并在结果生成后直接写回原选区。 |
 | 学习内容 | 可选生成的词汇、搭配、句式与中文解释，不等于收藏。 |
 | 收藏条目 | 用户主动保存的表达，词汇、短语和整句统一处理。 |
 | 语境 | 收藏表达出现的原句、对应释义，以及适用时的润色前后对照。 |
